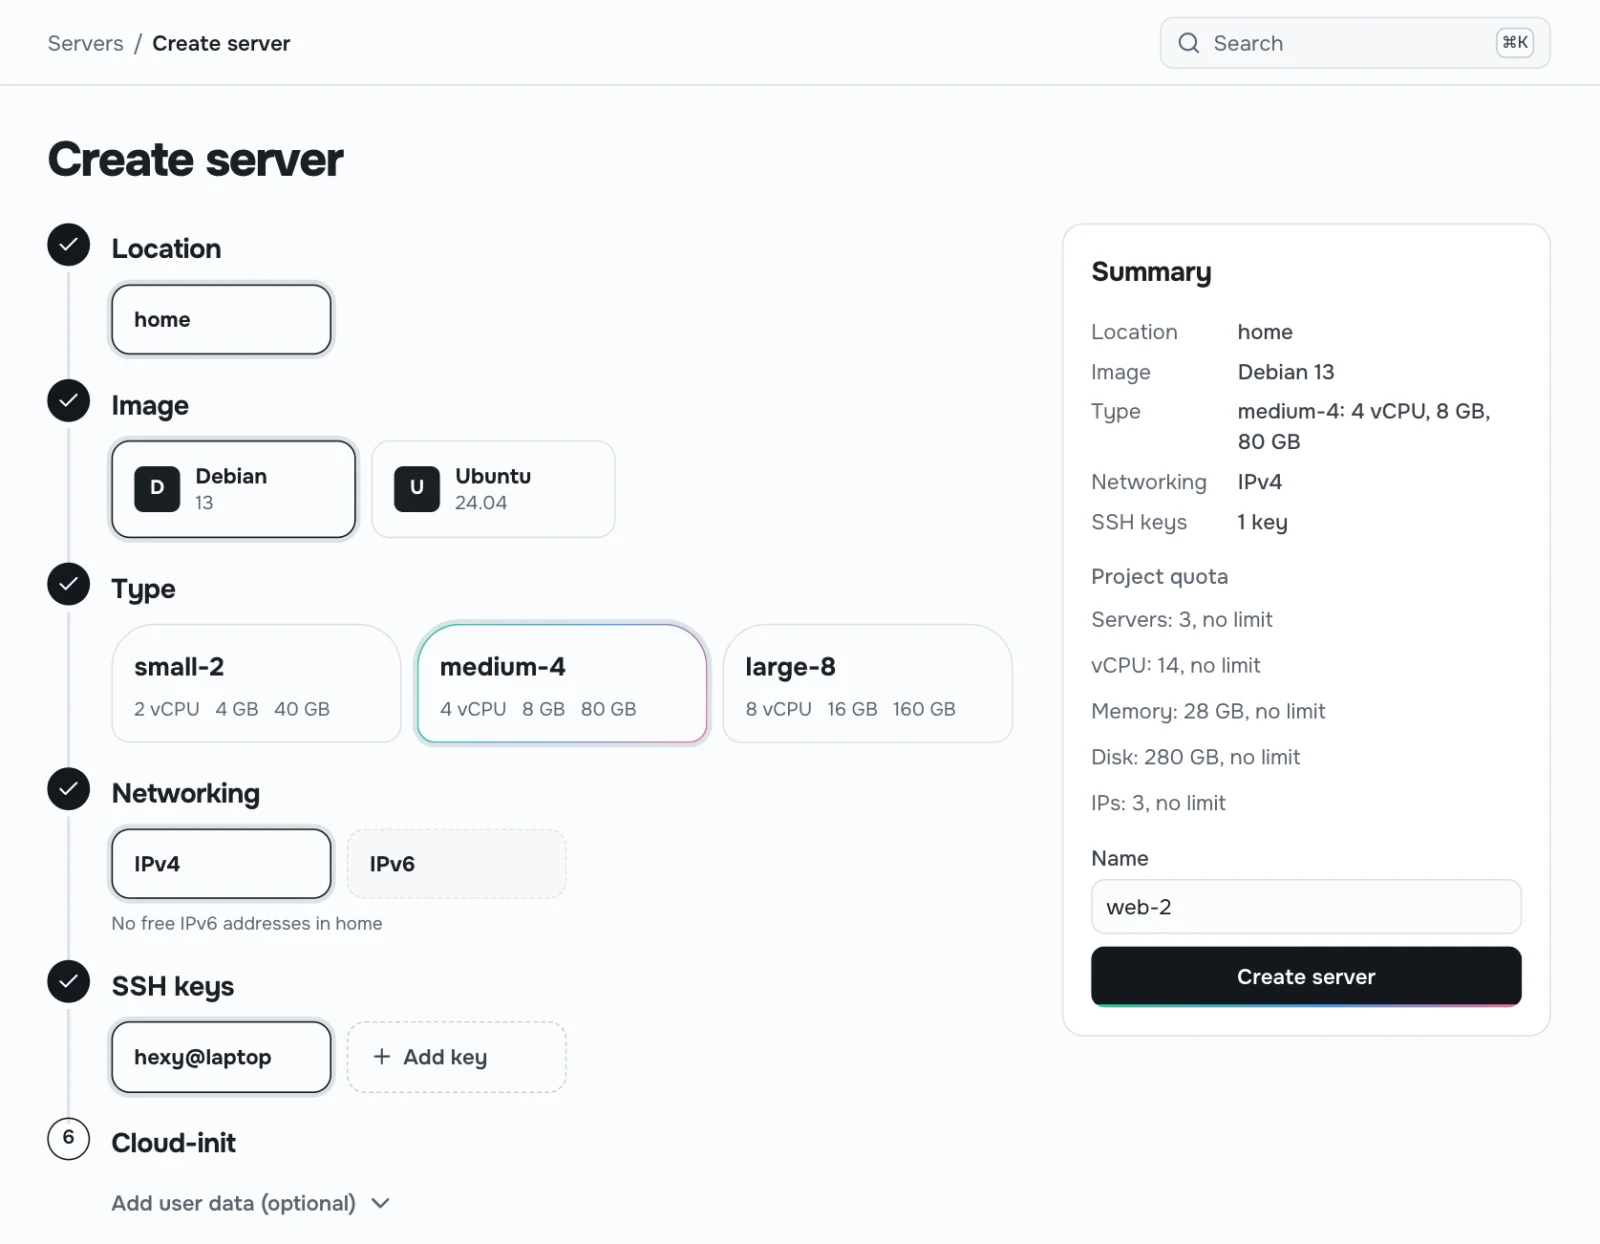
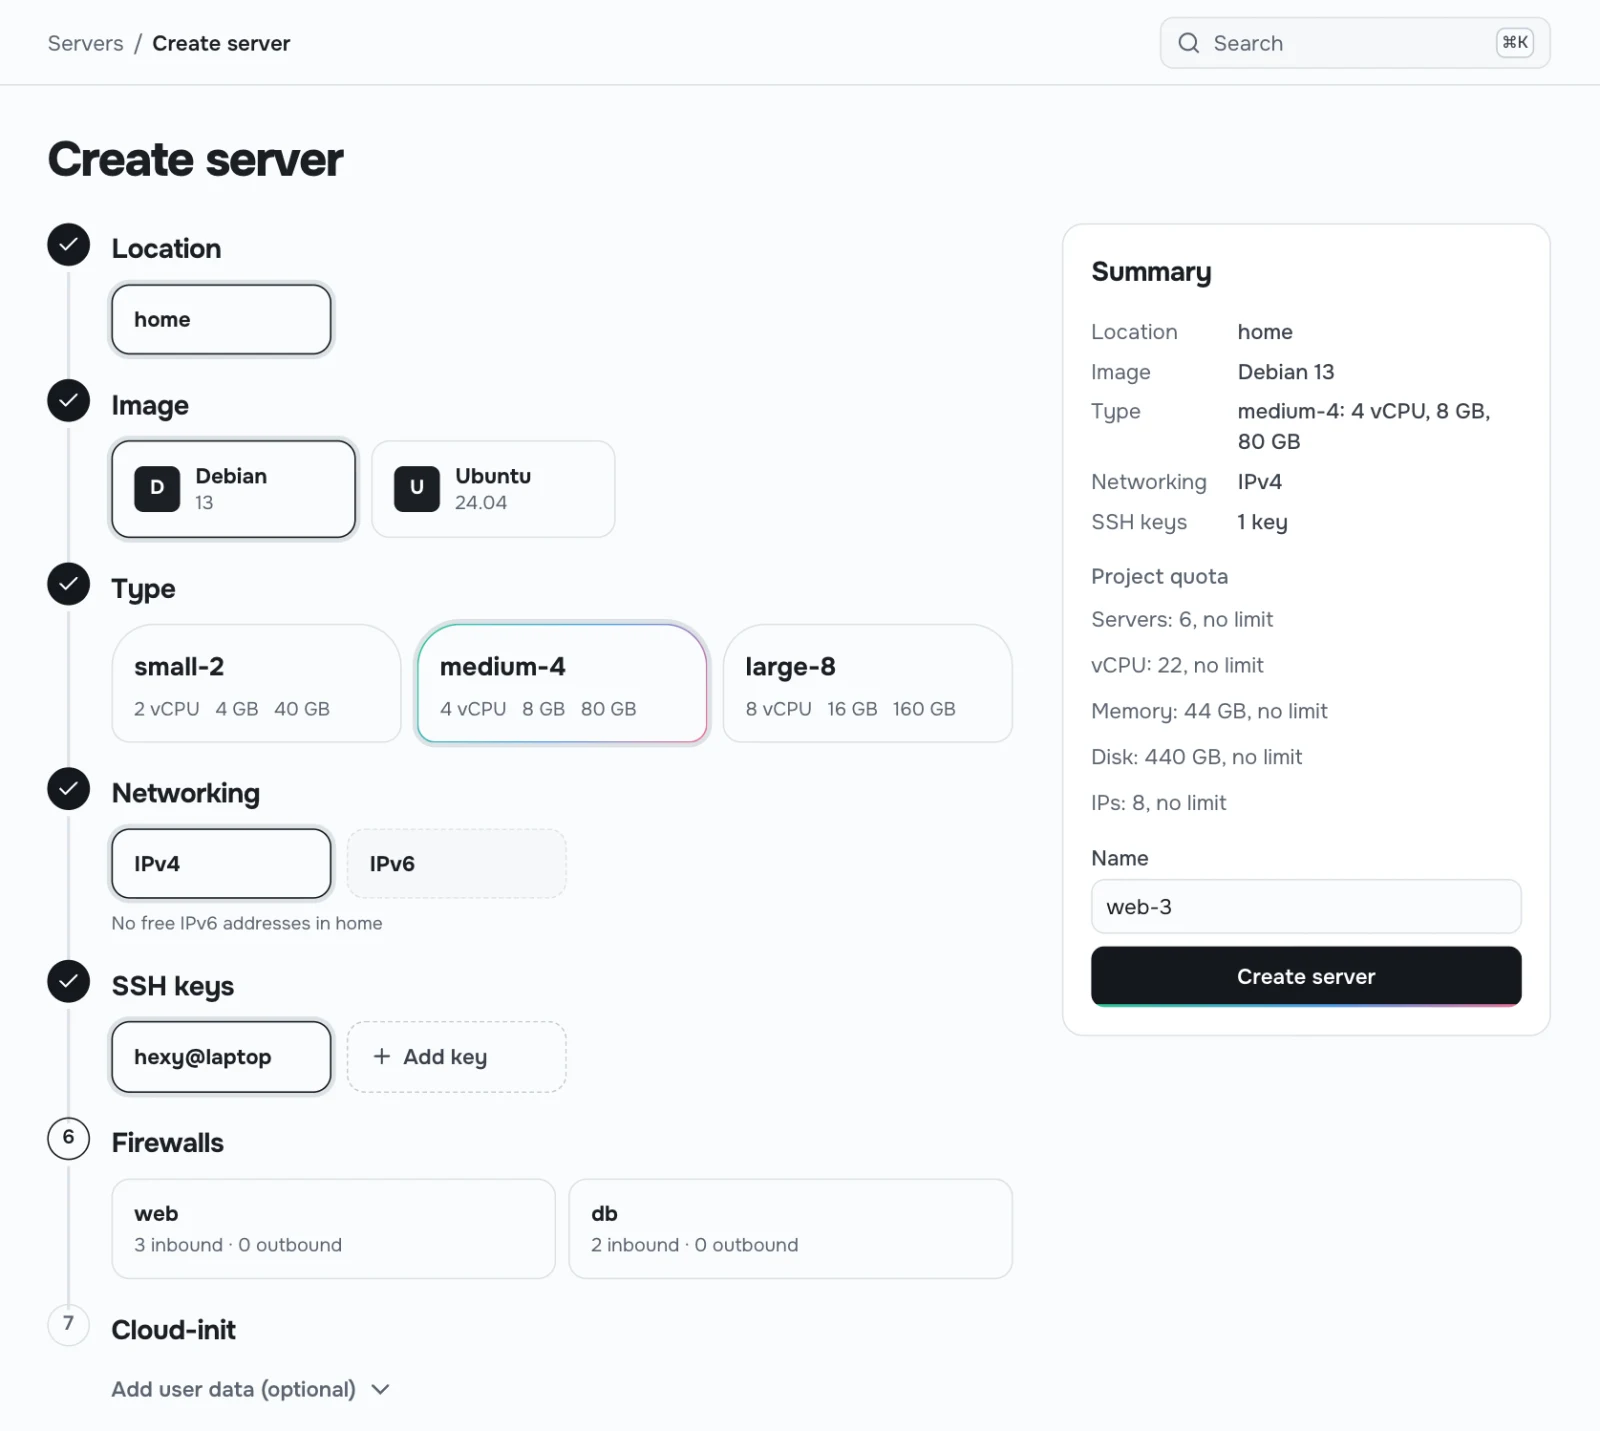
feat: retake panel screenshots on a fuller Home lab and add README shots to the capture script
The capture now seeds six servers with labels (one off), volumes, two firewalls and
floating IPs, and --readme also writes the core README's full-window light and dark
shots from the same run. --harness reuses a running harness.

diff --git a/app/components/mock/PanelShot.vue b/app/components/mock/PanelShot.vue
@@ -2,9 +2,9 @@
 // Real screenshots of the panel (light and dark), captured from the UI harness on demo data.
 // Regenerate them with `pnpm capture:panel` when the panel's look changes, and update the heights here.
 const SHOTS = {
-  'create-server': { title: 'panel.example.com / Home lab / Servers / New', width: 1600, height: 1244, alt: 'The Nebla create-server page: location, image, type, networking and SSH key chosen step by step, with a summary and project quota beside them.' },
-  'server-detail': { title: 'panel.example.com / Home lab / Servers / web-1', width: 1600, height: 1030, alt: 'The Nebla server page for web-1: running Debian 13 on medium-4, with CPU, network and disk graphs, its details and recent activity.' },
-  'server-list': { title: 'panel.example.com / Home lab / Servers', width: 1600, height: 749, alt: 'The Nebla server list for the Home lab project: three running servers with their image, type, IPv4 address, location and CPU sparkline.' }
+  'create-server': { title: 'panel.example.com / Home lab / Servers / New', width: 1600, height: 1431, alt: 'The Nebla create-server page: location, image, type, networking, SSH key and firewalls chosen step by step, with a summary and project quota beside them.' },
+  'server-detail': { title: 'panel.example.com / Home lab / Servers / web-1', width: 1600, height: 1139, alt: 'The Nebla server page for web-1: running Debian 13 on medium-4, with CPU, network and disk graphs, its addresses, a floating IP and recent activity.' },
+  'server-list': { title: 'panel.example.com / Home lab / Servers', width: 1600, height: 979, alt: 'The Nebla server list for the Home lab project: six servers, five running and one off, with their labels, image, type, IPv4 address, location and CPU sparkline.' }
 } as const
 
 const props = withDefaults(defineProps<{ shot: keyof typeof SHOTS, priority?: boolean }>(), { priority: false })

diff --git a/README.md b/README.md
@@ -58,7 +58,7 @@ nebla.dev runs on Coolify from the `Dockerfile`: it builds the site, runs `check
 
 ## Panel screenshots
 
-`public/screens/` holds real screenshots of the panel in light and dark, taken from the core repo's UI harness (`internal/uiharness`) on demo data, and `PanelShot` shows them in a window frame. Retake them whenever the panel's look changes with `pnpm capture:panel`: it builds the panel in `../nebla` (or `--core=<path>`), runs the harness, sets up a Home lab project with three servers in your installed Chrome, and writes all six images. The fake Proxmox only returns a five-point ramp for metrics, so the script answers the metrics API with a seeded hour of realistic data per server. `--skip-build` reuses the current `web/dist`. If an image's height changes, update it in `PanelShot`.
+`public/screens/` holds real screenshots of the panel in light and dark, taken from the core repo's UI harness (`internal/uiharness`) on demo data, and `PanelShot` shows them in a window frame. Retake them whenever the panel's look changes with `pnpm capture:panel`: it builds the panel in `../nebla` (or `--core=<path>`), runs the harness, sets up a Home lab project in your installed Chrome (six servers with labels, volumes, firewalls and floating IPs), and writes all six images. `--readme` also writes the core README's full-window shots to `docs/assets/screenshots` in the core checkout, from the same data, and `--harness=<out.json>` reuses a harness that is already running. The fake Proxmox only returns a five-point ramp for metrics, so the script answers the metrics API with a seeded hour of realistic data per server. `--skip-build` reuses the current `web/dist`. The script prints each image's height; if one changes, update it in `PanelShot`.
 
 ## Licence
 
